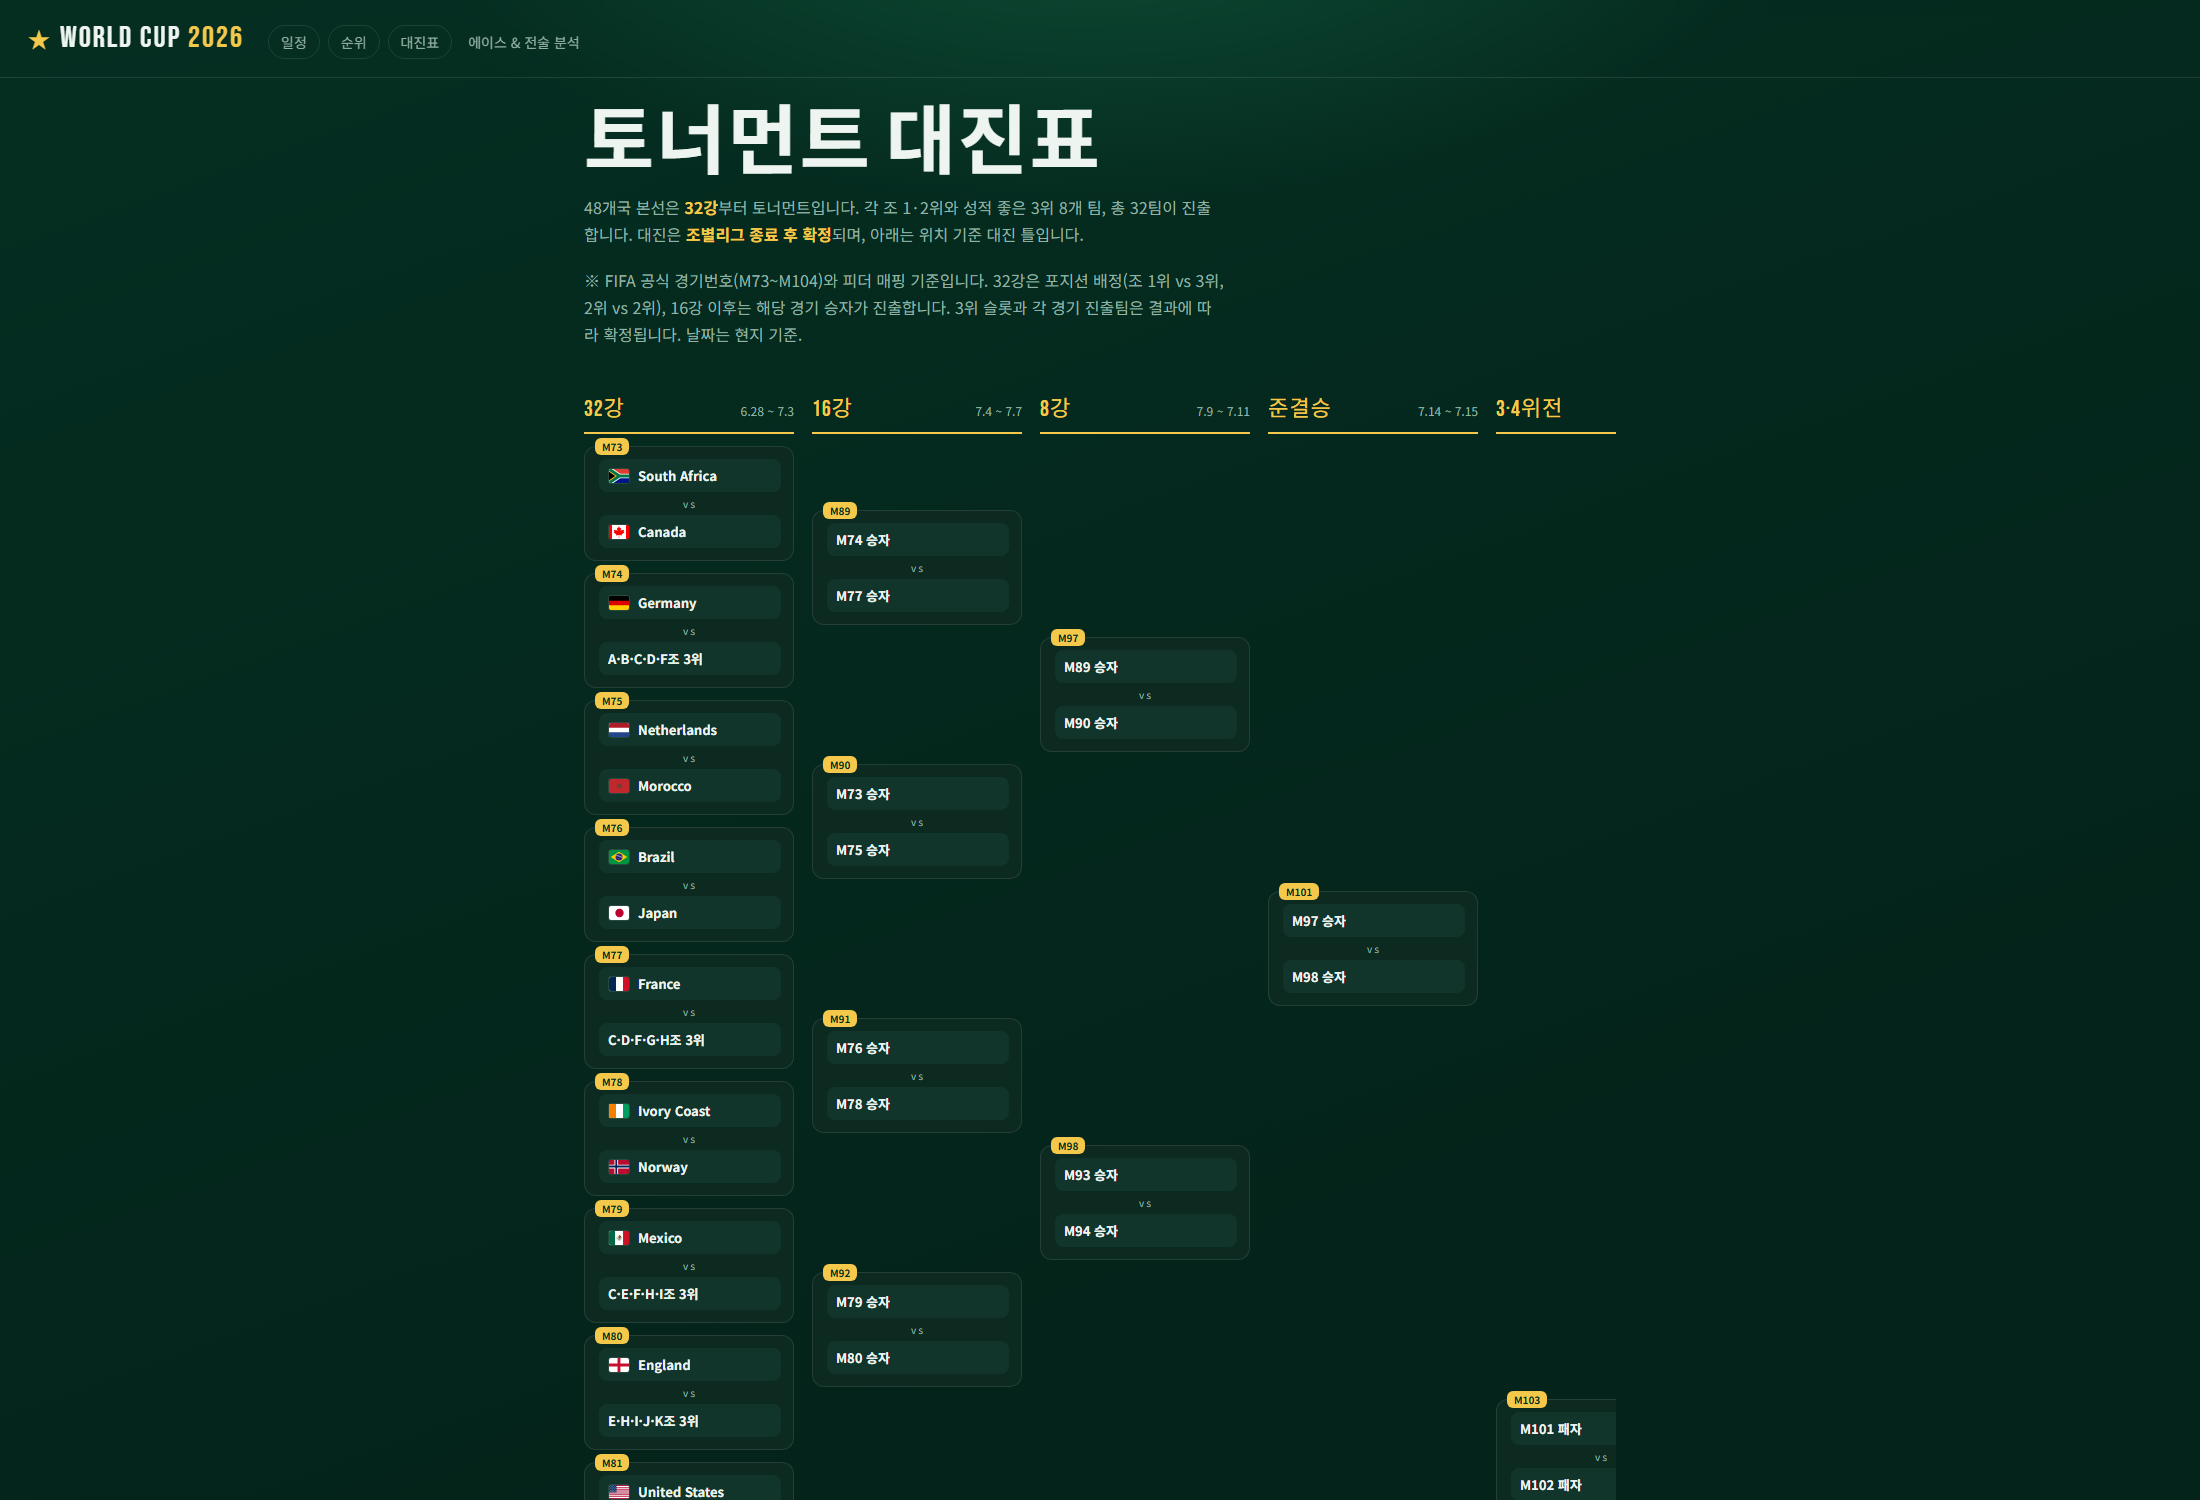
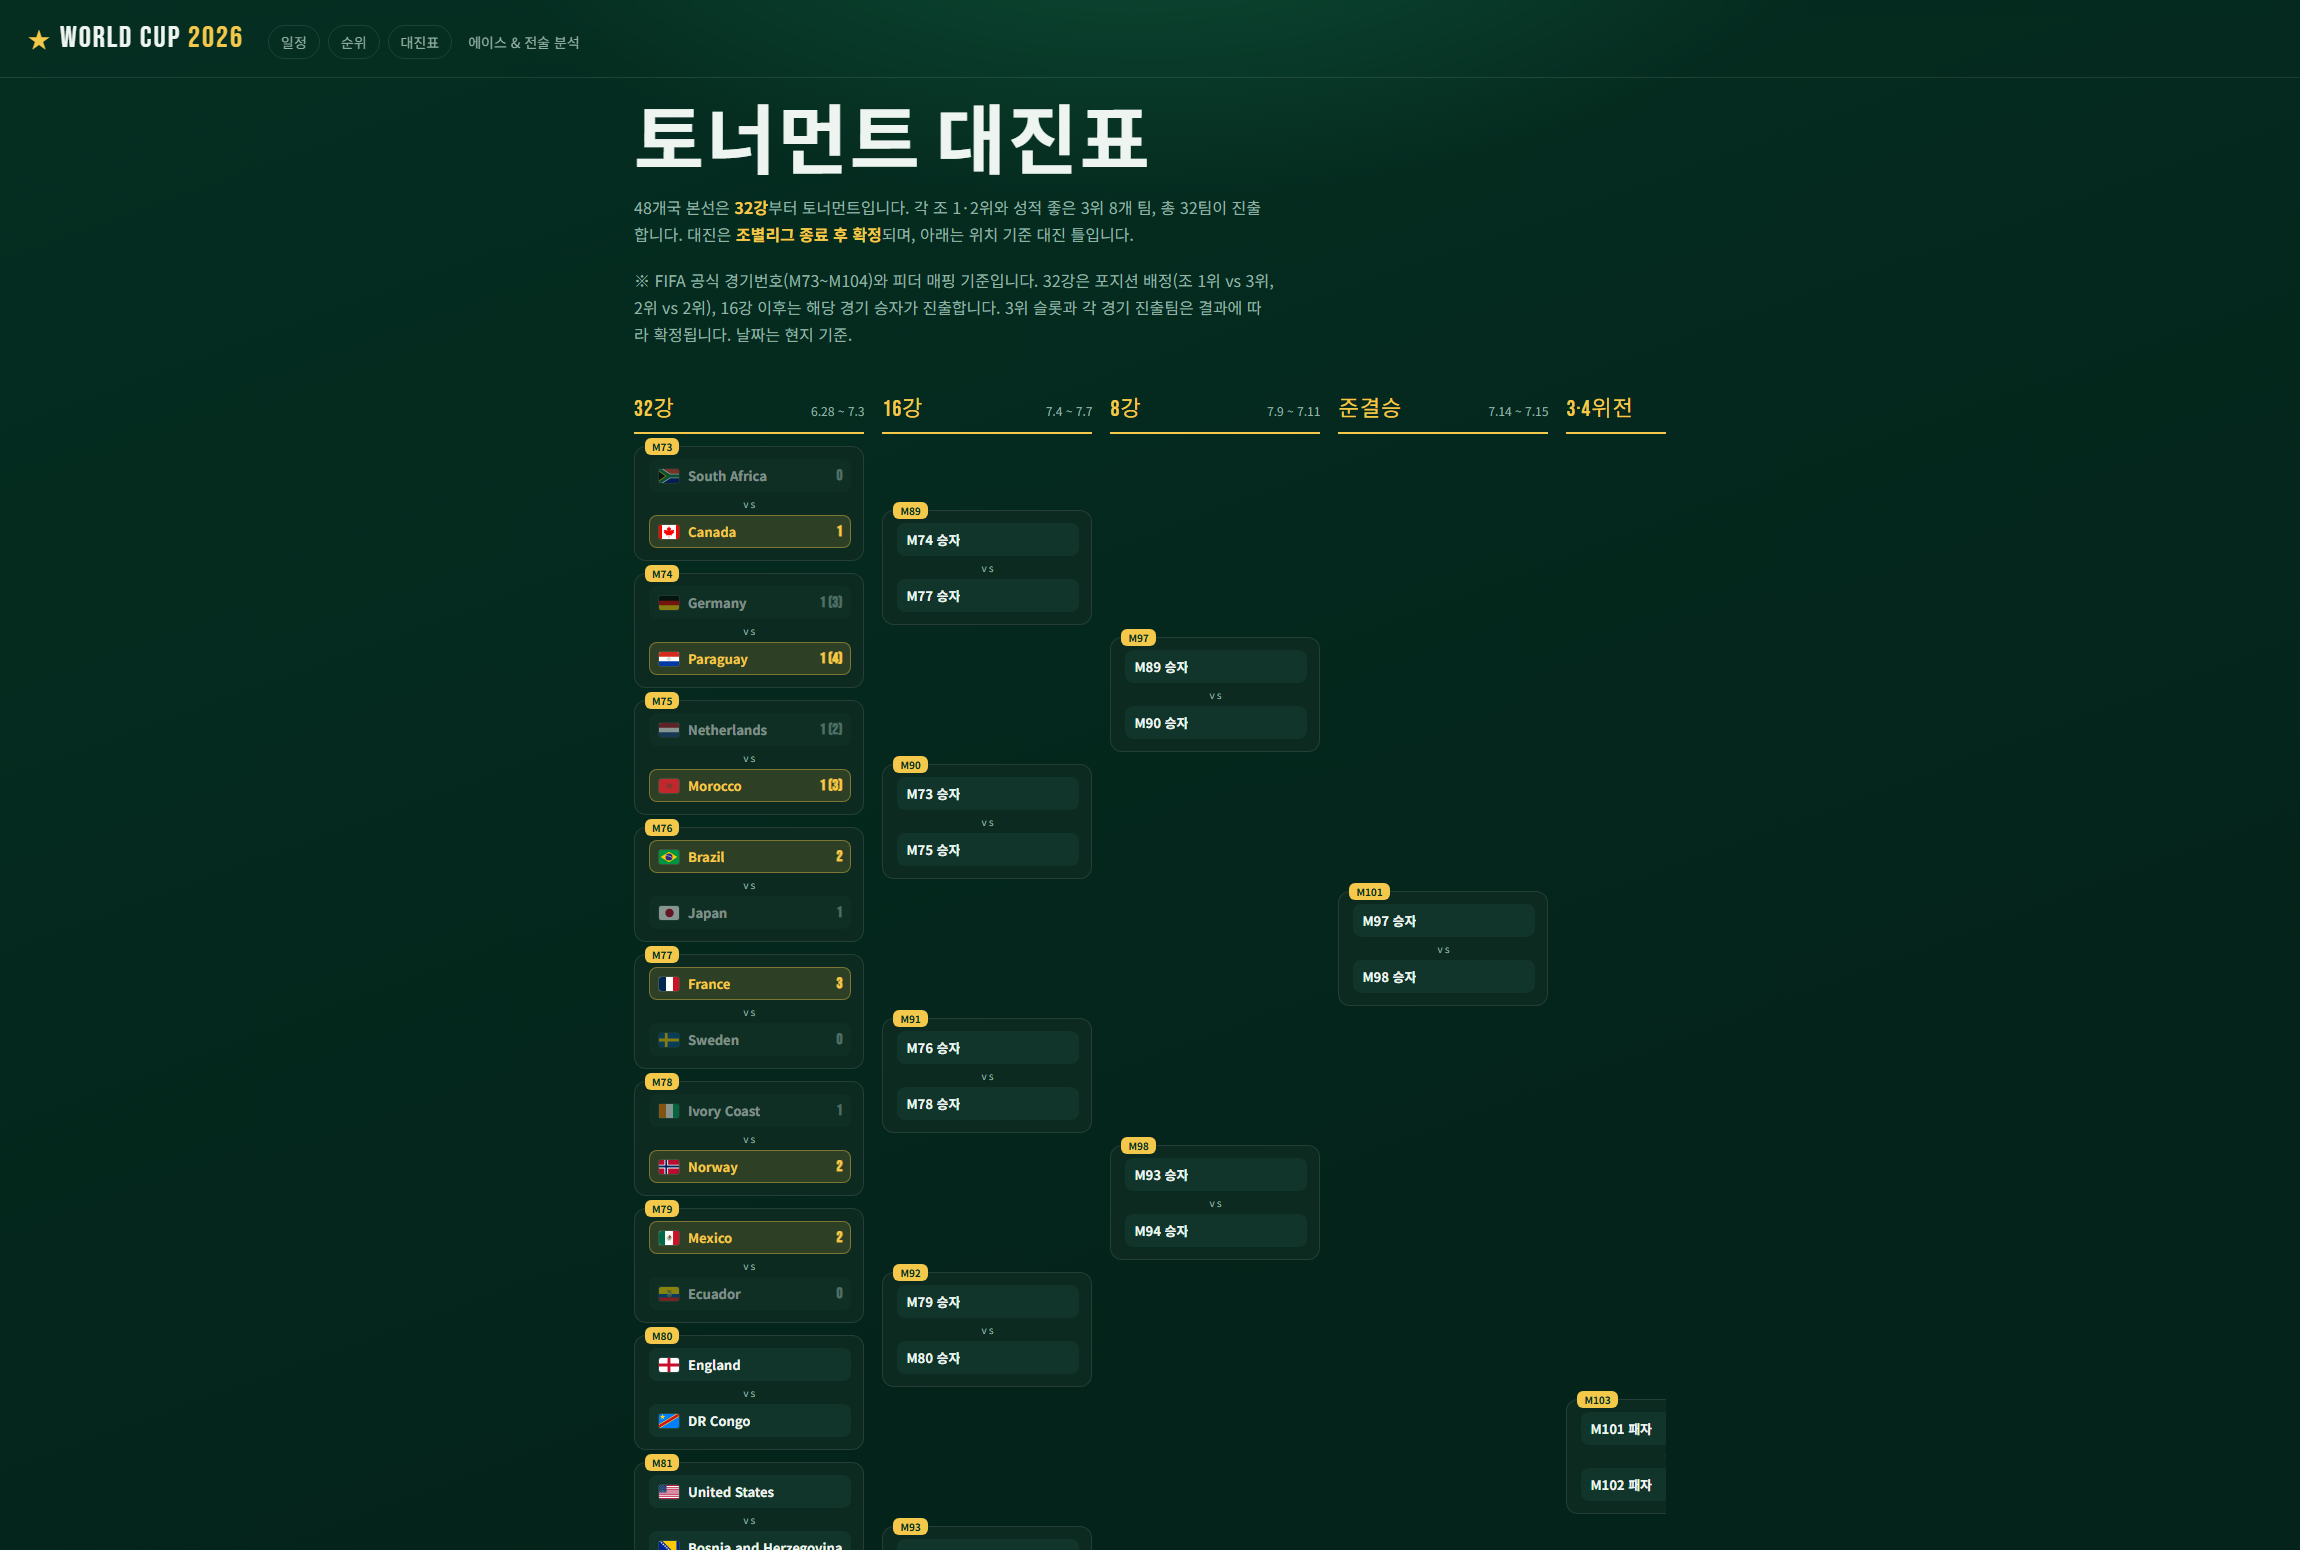
feat: add Round of 32 knockout fixtures and results to schedule and bracket
The group stage is over and all 16 Round-of-32 matchups are set. Add them to
the bundled data (LAST_32): the 7 completed matches with scores — including two
penalty-shootout exits (Germany, Netherlands) — and the 9 upcoming fixtures.

- ScoreDto gains an optional penalties line; scoreLabel shows "(승부차기 x:y)".
- BracketService overlays real knockout fixtures onto the M73–M104 framework:
  actual teams (resolving the third-place slots), scores and the winner
  (highlighted), while unplayed later rounds keep their feeder labels.
- Knockout fixtures now also appear on the schedule with flags.
- Refresh the bracket screenshot.

diff --git a/src/main/resources/templates/bracket.html b/src/main/resources/templates/bracket.html
@@ -22,14 +22,18 @@
                 <div class="ties">
                     <div class="tie" th:each="tie : ${round.ties}">
                         <span class="tie-no" th:if="${tie.no != ''}" th:text="${tie.no}">M1</span>
-                        <div class="slot" th:with="furl=${@flags.url(tie.top)}">
+                        <div class="slot" th:with="furl=${@flags.url(tie.top)}"
+                             th:classappend="${tie.finished} ? (${tie.winner == 'TOP'} ? 'slot-win' : 'slot-lose') : ''">
                             <img class="flag" th:if="${furl != ''}" th:src="${furl}" alt="" loading="lazy"/>
                             <span class="slot-name" th:text="${tie.top}">상단</span>
+                            <span class="slot-score" th:if="${tie.topScore != ''}" th:text="${tie.topScore}">2</span>
                         </div>
                         <div class="slot-vs">vs</div>
-                        <div class="slot" th:with="furl=${@flags.url(tie.bottom)}">
+                        <div class="slot" th:with="furl=${@flags.url(tie.bottom)}"
+                             th:classappend="${tie.finished} ? (${tie.winner == 'BOTTOM'} ? 'slot-win' : 'slot-lose') : ''">
                             <img class="flag" th:if="${furl != ''}" th:src="${furl}" alt="" loading="lazy"/>
                             <span class="slot-name" th:text="${tie.bottom}">하단</span>
+                            <span class="slot-score" th:if="${tie.bottomScore != ''}" th:text="${tie.bottomScore}">1</span>
                         </div>
                     </div>
                 </div>

diff --git a/src/main/resources/static/css/styles.css b/src/main/resources/static/css/styles.css
@@ -274,7 +274,11 @@ a { color: inherit; text-decoration: none; }
     font-size: 13px; font-weight: 700; padding: 7px 9px;
     background: var(--card-soft); border-radius: 8px;
 }
-.slot-name { min-width: 0; }
+.slot-name { min-width: 0; overflow: hidden; text-overflow: ellipsis; white-space: nowrap; }
+.slot-score { margin-left: auto; font-family: 'Bebas Neue', sans-serif; font-size: 15px; color: var(--muted); }
+.slot-win { background: rgba(244, 200, 74, 0.14); box-shadow: inset 0 0 0 1px rgba(244, 200, 74, 0.4); }
+.slot-win .slot-name, .slot-win .slot-score { color: var(--gold); }
+.slot-lose { opacity: 0.5; }
 .slot-vs { font-size: 10px; color: var(--muted); text-align: center; letter-spacing: 2px; margin: 4px 0; }
 
 /* ---------- Standings ---------- */

diff --git a/src/main/java/sung/worldcupanalysis/service/BracketService.java b/src/main/java/sung/worldcupanalysis/service/BracketService.java
@@ -3,8 +3,10 @@ package sung.worldcupanalysis.service;
 import org.springframework.stereotype.Service;
 import sung.worldcupanalysis.model.Bracket.Round;
 import sung.worldcupanalysis.model.Bracket.Tie;
+import sung.worldcupanalysis.model.FootballData.MatchDto;
 import sung.worldcupanalysis.service.StandingsService.GroupTable;
 
+import java.util.HashMap;
 import java.util.List;
 import java.util.Map;
 
@@ -18,27 +20,75 @@ import java.util.Map;
 @Service
 public class BracketService {
 
-    private final StandingsService standings;
+    /** Knockout match ids encode their FIFA number: id 270073 -> "M73". */
+    private static final long KO_ID_BASE = 270000L;
 
-    public BracketService(StandingsService standings) {
+    private final StandingsService standings;
+    private final MatchService matchService;
+
+    public BracketService(StandingsService standings, MatchService matchService) {
         this.standings = standings;
+        this.matchService = matchService;
     }
 
     /**
-     * The bracket with slots resolved to real team names where the group stage
-     * already decides them (completed groups' 1st/2nd). Everything else stays as
-     * its positional/feeder label.
+     * The bracket with slots filled in from real data where available: an actual
+     * knockout fixture (real teams, score and winner) overrides its tie, and any
+     * remaining "X조 1위/2위" labels resolve from completed groups. Unplayed later
+     * rounds keep their positional/feeder labels.
      */
     public List<Round> rounds() {
         Map<String, GroupTable> tables = standings.tables();
+        Map<String, MatchDto> knockout = knockoutByNo();
         return rawRounds().stream()
                 .map(round -> new Round(round.name(), round.dateLabel(),
                         round.ties().stream()
-                                .map(tie -> new Tie(tie.no(),
-                                        StandingsService.resolveSlot(tie.top(), tables),
-                                        StandingsService.resolveSlot(tie.bottom(), tables)))
+                                .map(tie -> resolveTie(tie, tables, knockout))
                                 .toList()))
                 .toList();
+    }
+
+    /** Overlays an actual knockout fixture onto a tie, else resolves group slots. */
+    private Tie resolveTie(Tie tie, Map<String, GroupTable> tables, Map<String, MatchDto> knockout) {
+        MatchDto m = knockout.get(tie.no());
+        if (m != null) {
+            String top = m.homeTeam().name();
+            String bottom = m.awayTeam().name();
+            var score = m.score();
+            boolean finished = "FINISHED".equalsIgnoreCase(m.status())
+                    && score != null && score.fullTime() != null
+                    && score.fullTime().home() != null && score.fullTime().away() != null;
+            if (finished) {
+                var pens = score.penalties();
+                String ts = scoreText(score.fullTime().home(), pens != null ? pens.home() : null);
+                String bs = scoreText(score.fullTime().away(), pens != null ? pens.away() : null);
+                String winner = "HOME_TEAM".equals(score.winner()) ? "TOP"
+                        : "AWAY_TEAM".equals(score.winner()) ? "BOTTOM" : "";
+                return new Tie(tie.no(), top, bottom, ts, bs, winner, true);
+            }
+            return new Tie(tie.no(), top, bottom); // fixture set, not yet played
+        }
+        return new Tie(tie.no(),
+                StandingsService.resolveSlot(tie.top(), tables),
+                StandingsService.resolveSlot(tie.bottom(), tables));
+    }
+
+    private static String scoreText(Integer goals, Integer penalties) {
+        if (goals == null) {
+            return "";
+        }
+        return penalties == null ? String.valueOf(goals) : goals + " (" + penalties + ")";
+    }
+
+    /** Knockout fixtures keyed by their FIFA match number ("M73" ... "M104"). */
+    private Map<String, MatchDto> knockoutByNo() {
+        Map<String, MatchDto> map = new HashMap<>();
+        for (MatchDto m : matchService.getAllMatches()) {
+            if (m.stage() != null && !"GROUP_STAGE".equals(m.stage()) && m.id() >= KO_ID_BASE) {
+                map.put("M" + (m.id() - KO_ID_BASE), m);
+            }
+        }
+        return map;
     }
 
     private List<Round> rawRounds() {

diff --git a/src/main/java/sung/worldcupanalysis/model/Bracket.java b/src/main/java/sung/worldcupanalysis/model/Bracket.java
@@ -14,6 +14,17 @@ public final class Bracket {
     public record Round(String name, String dateLabel, List<Tie> ties) {
     }
 
-    public record Tie(String no, String top, String bottom) {
+    /**
+     * A single tie. {@code topScore}/{@code bottomScore} are display strings
+     * (e.g. "2" or "1 (4)" including a penalty-shootout count) and are empty when
+     * the tie hasn't been played. {@code winner} is "TOP", "BOTTOM" or "".
+     */
+    public record Tie(String no, String top, String bottom,
+                      String topScore, String bottomScore, String winner, boolean finished) {
+
+        /** Framework tie with no result yet (positional/feeder labels). */
+        public Tie(String no, String top, String bottom) {
+            this(no, top, bottom, "", "", "", false);
+        }
     }
 }

diff --git a/src/main/java/sung/worldcupanalysis/service/MatchService.java b/src/main/java/sung/worldcupanalysis/service/MatchService.java
@@ -120,7 +120,12 @@ public class MatchService {
         if (home == null || away == null) {
             return null;
         }
-        return home + " : " + away;
+        String label = home + " : " + away;
+        var pens = m.score().penalties();
+        if (pens != null && pens.home() != null && pens.away() != null) {
+            label += " (승부차기 " + pens.home() + ":" + pens.away() + ")";
+        }
+        return label;
     }
 
     private String stageLabel(String stage) {

diff --git a/src/test/java/sung/worldcupanalysis/service/StandingsServiceTest.java b/src/test/java/sung/worldcupanalysis/service/StandingsServiceTest.java
@@ -20,14 +20,14 @@ class StandingsServiceTest {
         return new MatchDto(0, "2026-06-20T00:00:00Z", "FINISHED", "GROUP_STAGE", group,
                 new TeamRef(null, home, home, null, null),
                 new TeamRef(null, away, away, null, null),
-                new ScoreDto(null, "REGULAR", new ScoreLine(hg, ag)));
+                new ScoreDto(null, "REGULAR", new ScoreLine(hg, ag), null));
     }
 
     private static MatchDto upcoming(String group, String home, String away) {
         return new MatchDto(0, "2026-06-20T00:00:00Z", "TIMED", "GROUP_STAGE", group,
                 new TeamRef(null, home, home, null, null),
                 new TeamRef(null, away, away, null, null),
-                new ScoreDto(null, "REGULAR", new ScoreLine(null, null)));
+                new ScoreDto(null, "REGULAR", new ScoreLine(null, null), null));
     }
 
     private static final List<MatchDto> COMPLETE_GROUP_A = List.of(

diff --git a/src/main/java/sung/worldcupanalysis/client/ApiFootballClient.java b/src/main/java/sung/worldcupanalysis/client/ApiFootballClient.java
@@ -143,7 +143,7 @@ public class ApiFootballClient {
     private ScoreDto toScore(FixtureItem item) {
         Integer home = item.goals() != null ? item.goals().home() : null;
         Integer away = item.goals() != null ? item.goals().away() : null;
-        return new ScoreDto(null, "REGULAR", new ScoreLine(home, away));
+        return new ScoreDto(null, "REGULAR", new ScoreLine(home, away), null);
     }
 
     /** API-Football status short codes -> the normalized status codes MatchService understands. */

diff --git a/src/main/java/sung/worldcupanalysis/model/FootballData.java b/src/main/java/sung/worldcupanalysis/model/FootballData.java
@@ -29,7 +29,7 @@ public final class FootballData {
     public record TeamRef(Long id, String name, String shortName, String tla, String crest) {
     }
 
-    public record ScoreDto(String winner, String duration, ScoreLine fullTime) {
+    public record ScoreDto(String winner, String duration, ScoreLine fullTime, ScoreLine penalties) {
     }
 
     public record ScoreLine(Integer home, Integer away) {